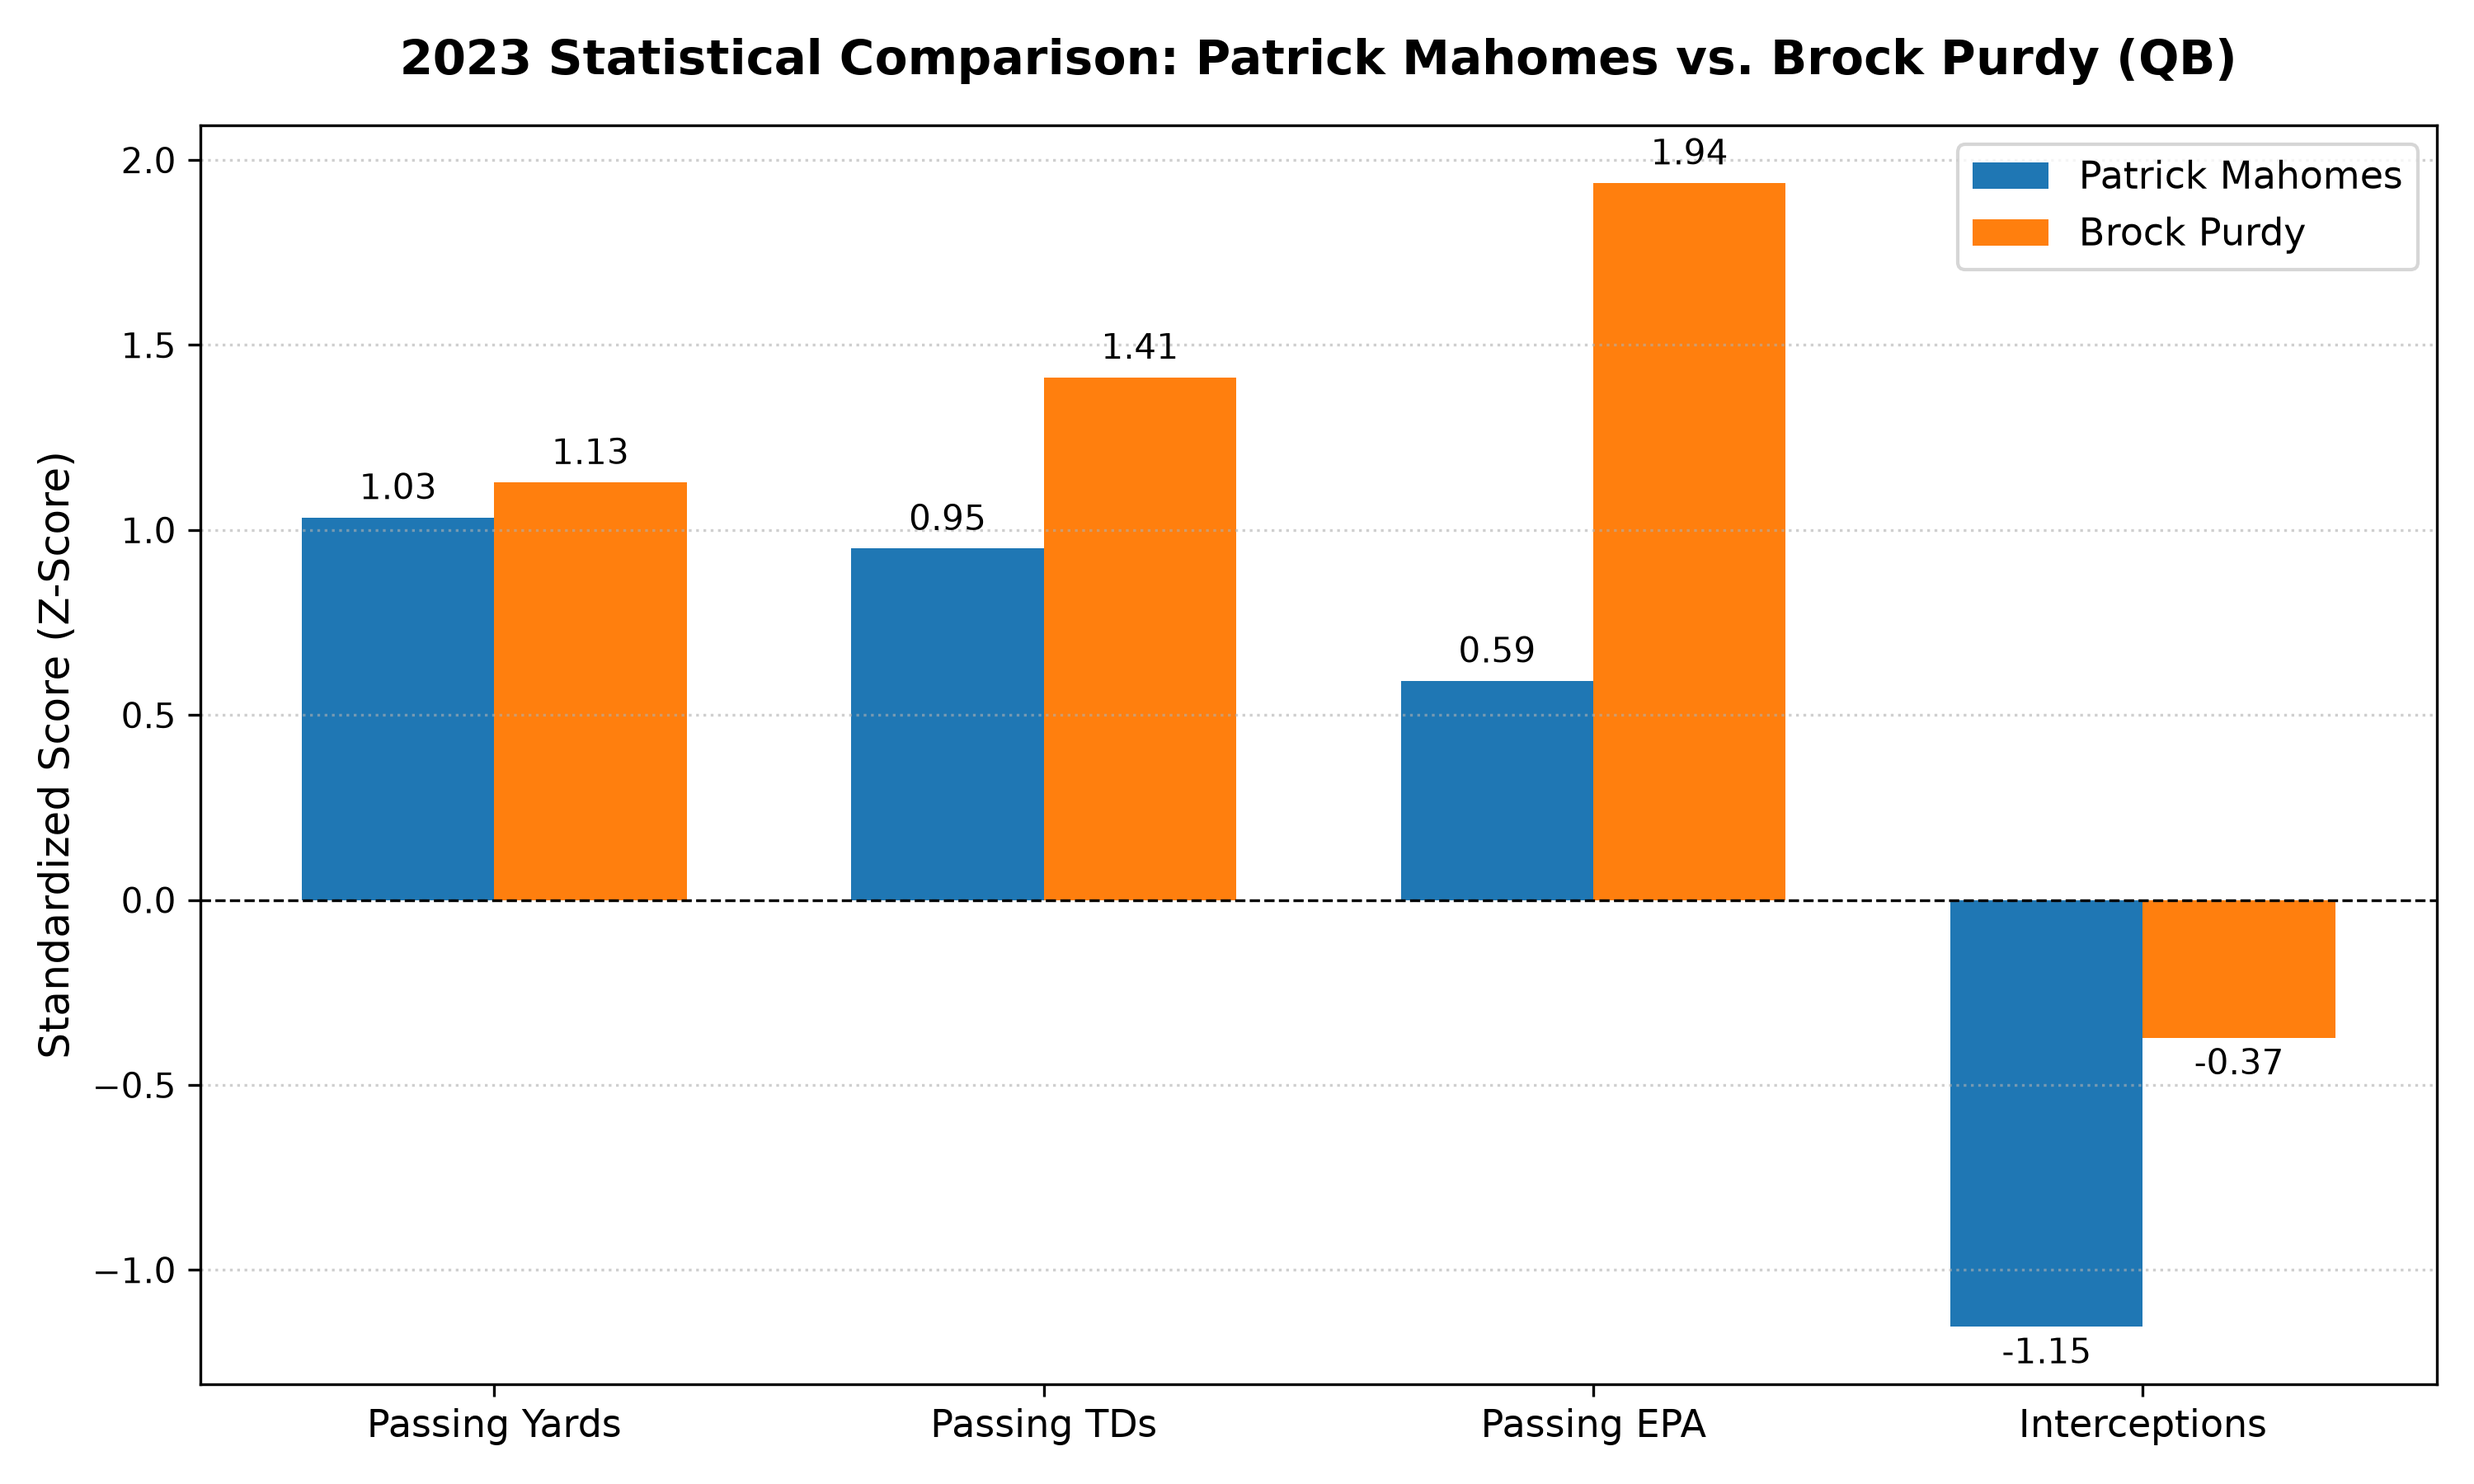
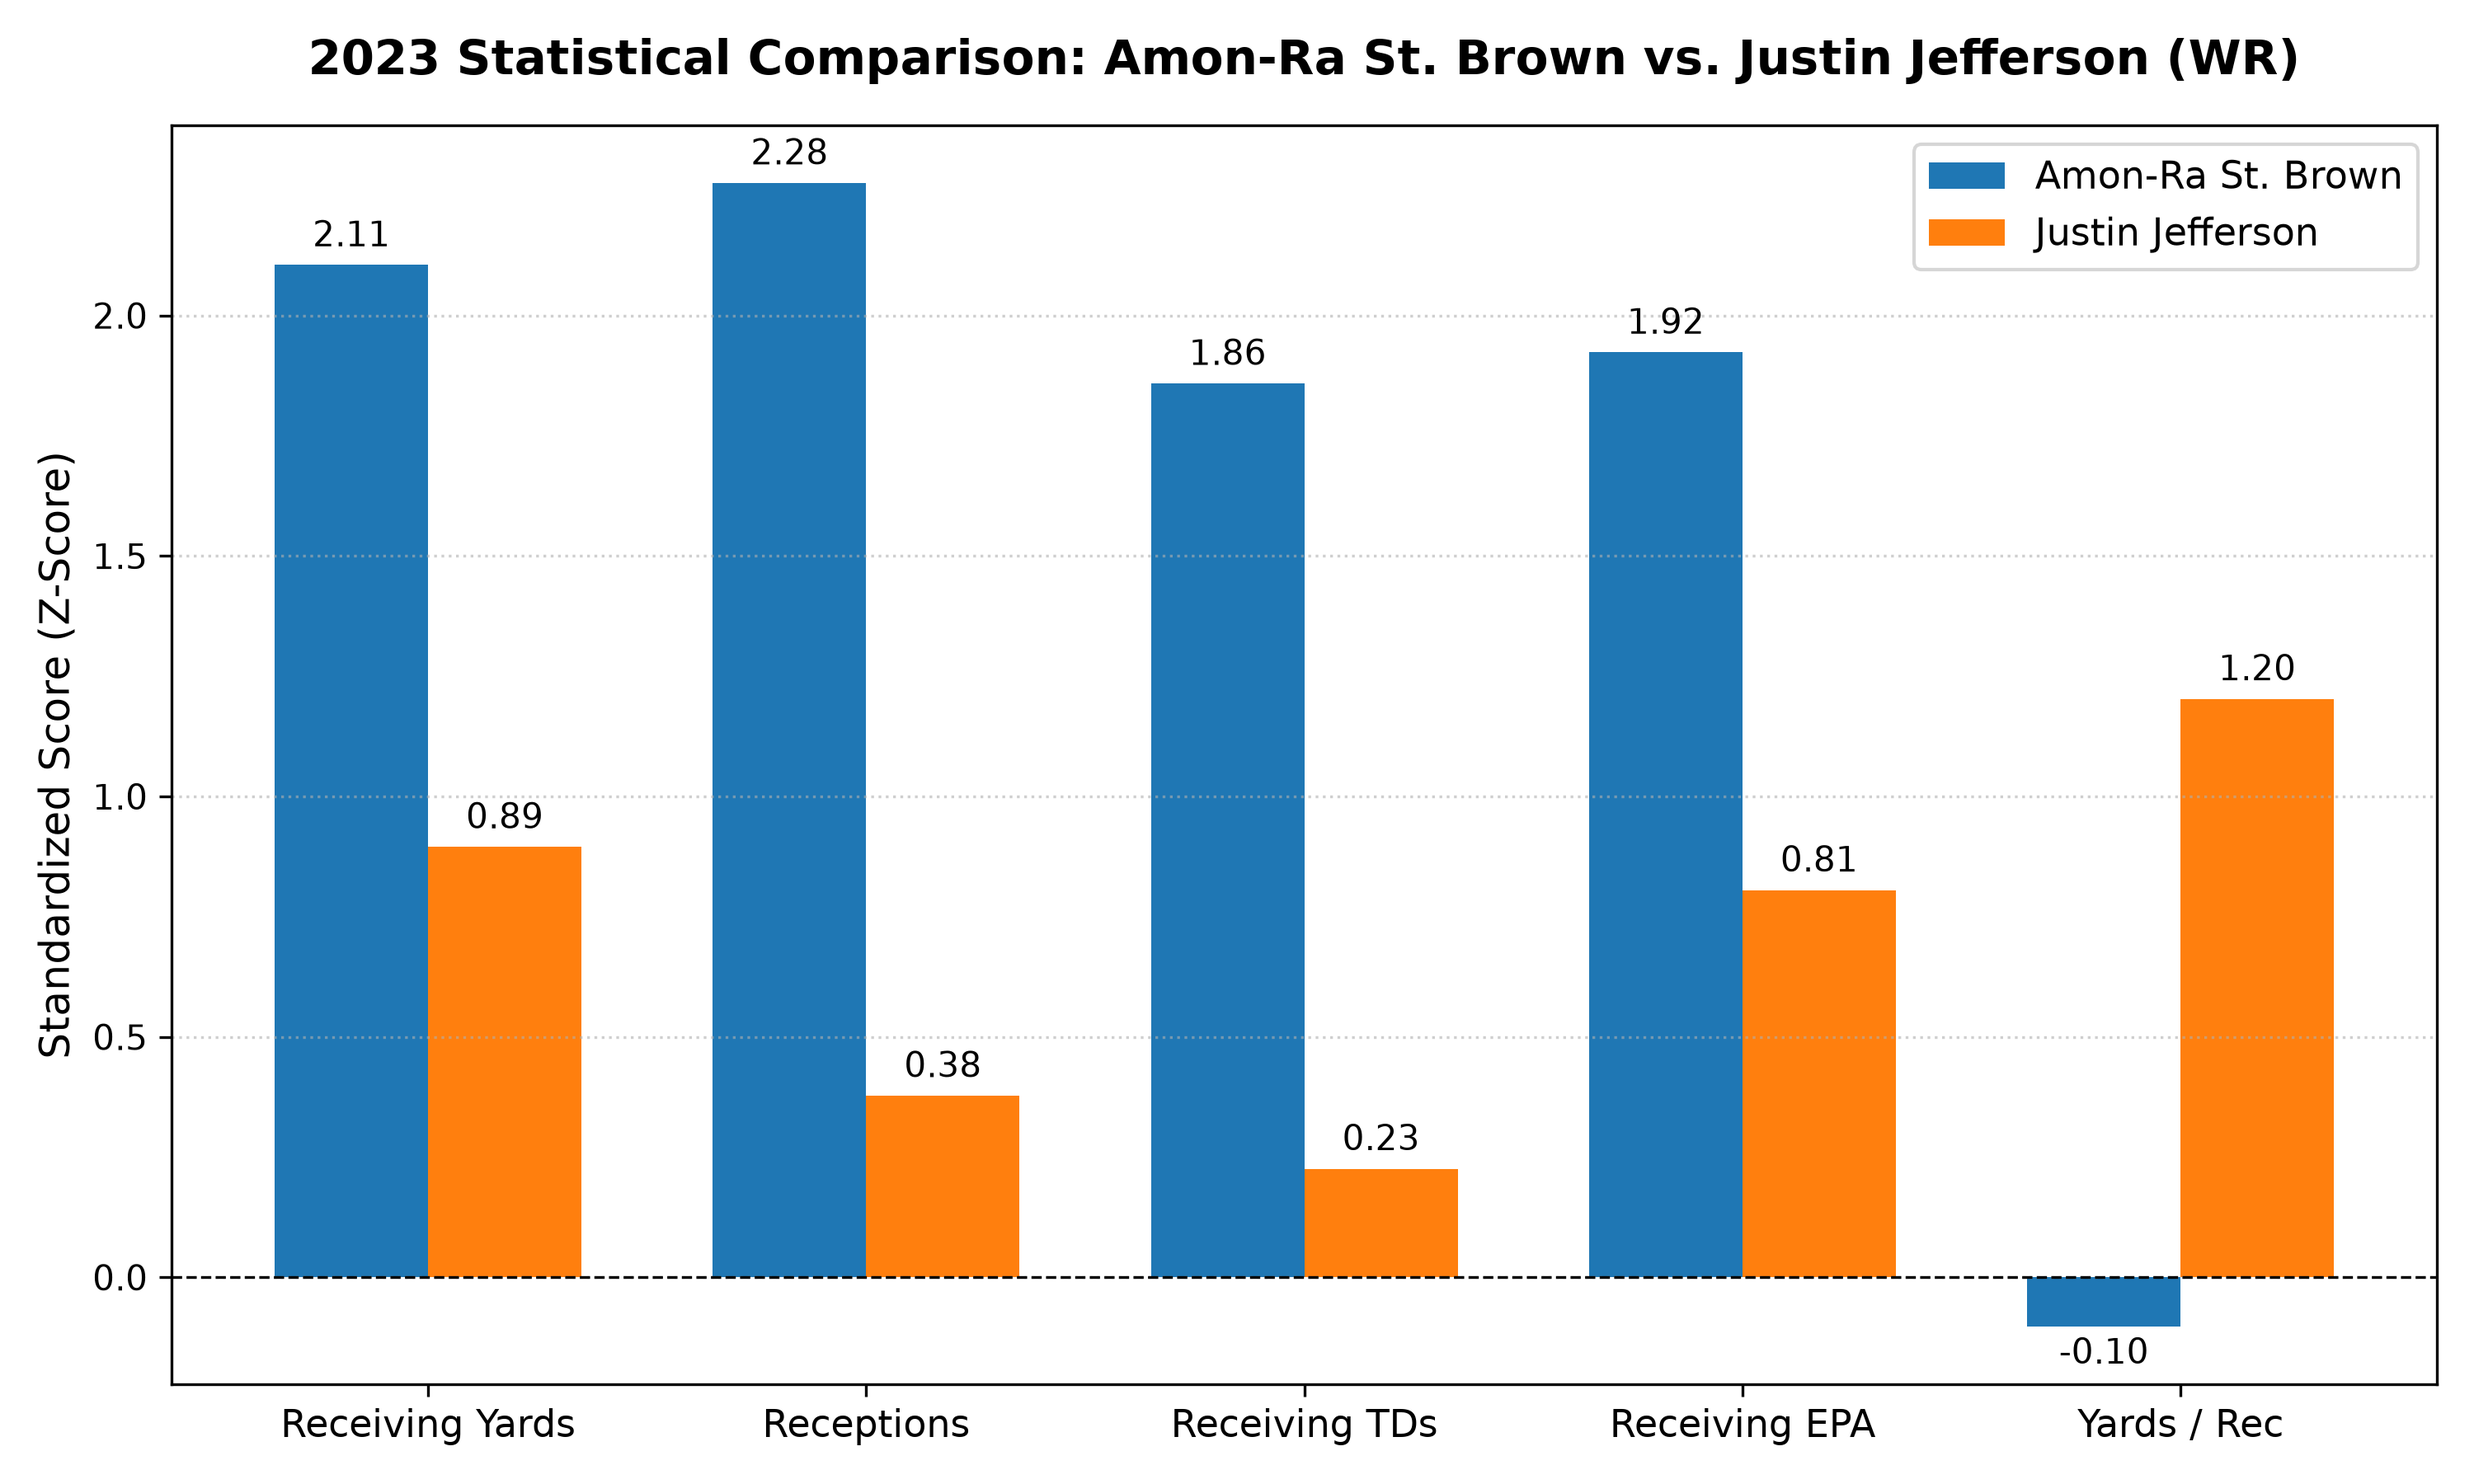
docs: finalize README with correct formulas, indented changelog, and WR chart

diff --git a/README.md b/README.md
@@ -1,160 +1,121 @@
-# NFL-player-compare
-A web application for comparing NFL players using statistics and performance data.
-## Visual Player Comparison
-
-Below is a sample output comparing **Patrick Mahomes** and **Brock Purdy** using normalized Z-scores across core QB factors:
-
-![Player Comparison Chart](player_comparison.png)
-
-
-[nfl_player_comparison_ranking_tool.md](https://github.com/user-attachments/files/34249619/nfl_player_comparison_ranking_tool.md)
 # NFL Player Comparison & Ranking Tool
 
-An interactive, multi-position NFL player evaluation tool built with Python, `pandas`, `nflreadpy`, and `matplotlib`. This application enables user-defined metric weighting, standardized Z-score performance indexing, dynamic position filtering, fuzzy player searching, and side-by-side visual analytics.
+A modular terminal application that processes season-long NFL data to rank and compare offensive skill players (QBs, RBs, WRs, TEs) using a custom Z-score statistical methodology.
 
 ---
 
-## Table of Contents
-- [Overview](#overview)
-- [Key Features](#key-features)
-- [Statistical Formula & Methodology](#statistical-formula--methodology)
-- [Installation & Requirements](#installation--requirements)
-- [Usage Guide](#usage-guide)
-- [Visualizations](#visualizations)
-- [Development Iterations & Changelog](#development-iterations--changelog)
+## Installation
 
----
-
-## Overview
-
-Traditional NFL statistics often evaluate players using single raw volume metrics (e.g., total passing yards) or raw averages that fail to account for context, sample size, or turnover penalties. This tool normalizes metrics across positions using **Z-scores** derived from 2023 regular-season data loaded via `nflreadpy`. It allows users to rank Quarterbacks (QB), Running Backs (RB), Wide Receivers (WR), and Tight Ends (TE) using balanced default formulas or custom-weighted criteria.
-
----
-
-## Key Features
-
-* **Multi-Position Normalization:** Evaluates QBs, RBs, WRs, and TEs using position-tailored factor dictionaries and minimum play thresholds.
-* **Fuzzy & Robust Name Search:** Handles input typos (e.g., `"jaylen hurts"` $\rightarrow$ `"Jalen Hurts"`) and punctuation variations (e.g., `"tj watt"` $\rightarrow$ `"T.J. Watt"`) using string cleaning and `difflib`.
-* **Interactive Preset & Custom Weighting:** Switch between Volume-heavy, Efficiency-heavy, Balanced, or fully customized metric weights (1–5 scale) with built-in overlap warnings.
-* **Turnover Penalty Directionality:** Automatically flips negative indicators (Interceptions, Fumbles Lost) so higher raw totals reduce composite rankings.
-* **Comparative Matplotlib Visualizations:** Generates grouped bar charts comparing player Z-scores directly against peers or position baselines.
-
----
-
-## Statistical Formula & Methodology
-
-### 1. Z-Score Standardization
-To compare disparate metrics (such as Passing EPA/play vs. Total Passing Yards) on an identical scale, raw stats ($X$) are transformed into standard deviation units ($Z$):
-
-$$Z = \left(\frac{X - \mu}{\sigma}\right) \times D$$
-
-Where:
-* $X$ = Player's raw stat
-* $\mu$ = Qualified position mean
-* $\sigma$ = Qualified position standard deviation
-* $D$ = Direction multiplier ($+1.0$ for positive metrics, $-1.0$ for negative metrics like INTs or Fumbles)
-
-### 2. Weighted Composite Index
-Player rankings are generated using the weighted mean of individual metric Z-scores:
-
-$$\text{Composite Score} = \frac{\sum (Z_i \times w_i)}{\sum w_i}$$
-
-Where $Z_i$ is the standardized metric score and $w_i$ is the assigned weight ($1 \le w_i \le 5$).
-
-### 3. Position Cutoffs & Factor Mappings
-
-| Position | Minimum Threshold | Included Metrics | Metric Direction |
-| :--- | :--- | :--- | :--- |
-| **QB** | $\ge 200$ Attempts | Passing Yards, Passing TDs, Passing EPA, Interceptions | INTs: Negative ($-1.0$) |
-| **RB** | $\ge 75$ Carries | Rushing Yards, Rushing TDs, Rushing EPA, Yards/Carry, Fumbles Lost | Fumbles: Negative ($-1.0$) |
-| **WR** | $\ge 40$ Targets | Receiving Yards, Receptions, Receiving TDs, Receiving EPA, Yards/Rec | All Positive ($+1.0$) |
-| **TE** | $\ge 40$ Targets | Receiving Yards, Receptions, Receiving TDs, Receiving EPA, Yards/Rec | All Positive ($+1.0$) |
-
----
-
-## Installation & Requirements
-
-### Prerequisites
-* Python 3.9 or higher
-
-### Required Dependencies
-Install the necessary libraries via `pip`:
+Ensure you have Python 3.8+ installed, then install the required dependencies:
 
 ```bash
 pip install pandas numpy nflreadpy matplotlib
+
 ```
 
 ---
 
-## Usage Guide
+## Features
 
-### 1. Interactive Search
-Run the robust player search interface:
-
-```bash
-python3 search.py
-```
-
-### 2. Custom QB Weighting Engine
-Run the custom weighting menu:
-
-```bash
-python3 rankings_v4.py
-```
-
-### 3. Multi-Position Rankings
-Generate rankings across QB, RB, WR, and TE:
-
-```bash
-python3 multi_position_rankings.py
-```
-
-### 4. Comparison Chart Generator
-Create Z-score comparison charts:
-
-```bash
-python3 charts.py
-```
+* **Memory-Cached Data Loading:** Downloads and parses 2023 NFL data using `nflreadpy` once at startup to optimize performance across all operations.
+* **Robust Player Search:** Supports exact full-name matches, unique last-name searches, and fuzzy string matching (with auto-correction for common typos).
+* **Position-Specific Z-Score Engine:** Ranks players within their position using weighted statistical factors (e.g., passing yards, passing TDs, passing EPA, and interceptions for QBs).
+* **Sample-Size Thresholds:** Filters out backup players using position-specific volume cutoffs (e.g., minimum 200 pass attempts for QBs).
+* **Side-by-Side Visual Comparisons:** Generates matplotlib bar charts comparing two qualified players across their position's core metrics.
+* **Interactive Terminal Workflow:** An intuitive CLI menu that unifies data processing, searching, ranking, and charting.
 
 ---
 
-## Visualizations
+## Positional Cutoffs & Metric Factors
 
-### Visual Player Comparison Chart
-The tool generates standardized Z-score visual charts comparing player stats without scale distortion:
-
-![Player Comparison Chart](player_comparison.png)
-
-*Figure 1: Standardized Z-Score Comparison between Patrick Mahomes and Brock Purdy (2023 Season).*
+| Position | Minimum Cutoff | Evaluated Metric Factors & Directions |
+| --- | --- | --- |
+| **QB** | 200 pass attempts | Passing Yards (1.0), Passing TDs (1.0), Passing EPA (1.0), Interceptions (-1.0) |
+| **RB** | 75 rush attempts | Rushing Yards (1.0), Rushing TDs (1.0), Rushing EPA (1.0), Yards/Carry (1.0), Fumbles Lost (-1.0) |
+| **WR** | 40 targets | Receiving Yards (1.0), Receptions (1.0), Receiving TDs (1.0), Receiving EPA (1.0), Yards/Reception (1.0) |
+| **TE** | 40 targets | Receiving Yards (1.0), Receptions (1.0), Receiving TDs (1.0), Receiving EPA (1.0), Yards/Reception (1.0) |
 
 ---
 
-## Development Iterations & Changelog
+## Statistical Methodology
 
-### Phase 1–2: Data Pipeline & Search Mechanics
-* Integrated `nflreadpy` to ingest 2023 regular season stats.
-* Implemented fuzzy matching via `difflib`. 
-* **Bug Fix:** Fixed `TypeError: object of type 'float' has no len()` caused by `NaN` values in `nflreadpy` string columns by applying `.dropna()` and explicit type filtering.
-* **Regex Enhancement:** Built `clean_str()` regex pipeline to resolve punctuation matching issues (e.g., matching `"tj watt"` to `"T.J. Watt"`).
+Players are evaluated using **Z-scores** to measure how many standard deviations their performance is above or below the positional mean:
 
-### Phase 3: Z-Score Core & Model Validation
-* Built initial 4-factor QB ranking model (Yards, TDs, EPA, INTs).
-* Defended C.J. Stroud's QB3 placement based on low turnover rate (5 INTs on 499 attempts).
+$$Z = D \times \frac{x - \mu}{\sigma}$$
 
-### Phase 4: Interactive Weighting Engine
-* Added interactive CLI menu with Volume, Efficiency, and Balanced presets.
-* Implemented input validation and double-counting warnings when high weights are assigned to both aggregate volume and composite EPA.
+* **$x$**: Player's individual stat value
+* **$\mu$**: Positional average (mean)
+* **$\sigma$**: Positional standard deviation
+* **$D$**: Direction multiplier ($D = -1$ for negative metrics like interceptions and fumbles lost; $D = 1$ for all other stats)
 
-### Phase 5: Multi-Position Expansion
-* Refactored Z-score scoring pipeline into a reusable modular function (`calculate_zscore_rankings`).
-* Configured tailored factor dicts and touch thresholds for RB ($\ge 75$ carries), WR ($\ge 40$ targets), and TE ($\ge 40$ targets).
-* Validated RB efficiency outliers (De'Von Achane's 7.8 YPC) vs. full-season volume leaders (Christian McCaffrey, Raheem Mostert).
+### Composite Score Formula
 
-### Phase 6: Matplotlib Analytics Visualization
-* Developed `charts.py` to plot grouped Z-score bar graphs for visual comparison.
+Positional Z-scores are multiplied by their directional factors and averaged to determine a composite score:
+
+$$\text{Composite Score} = \frac{\sum (Z_{\text{stat}} \times D_{\text{stat}})}{\sum \vert{}D_{\text{stat}}\vert{}}$$
+
+*Note: All EPA (Expected Points Added) metrics in this tool utilize cumulative **Total EPA** for the 2023 regular season, rather than per-play averages.*
+
+---
+
 ## Usage Guide
 
 To launch the interactive CLI application:
 
 ```bash
 python3 main.py
+
+```
+
+### Individual Scripts & Standalone Tools
+
+*(Earlier versions and specialized modules)*
+
+* `multi_position_rankings.py`: Runs the core Z-score calculation engine and prints positional leaderboards across skill positions.
+* `search.py`: Handles player name normalization, fuzzy matching, and disambiguation.
+* `charts.py`: Generates individual matplotlib comparison charts.
+* `rankings.py` & `rankings_v4.py`: Earlier iterations of the ranking script. `rankings_v4.py` includes a standalone interactive menu allowing users to input custom weights specifically for QBs (note: custom weighting is currently exclusive to `rankings_v4.py` and not part of the main `main.py` CLI workflow).
+
+---
+
+## Visualizations
+
+### Example Comparison: Amon-Ra St. Brown vs. Justin Jefferson (2023 WRs)
+
+> **Analytical Note:** Season-long cumulative totals heavily favor players who appeared in all 17 games. Justin Jefferson missed 7 games in 2023 due to a hamstring injury; while his efficiency (*Yards Per Reception*) remained elite, his cumulative Z-scores reflect missed volume compared to Amon-Ra St. Brown's full-season workload.
+
+---
+
+## Technical Changelog
+
+* **Phase 1 (Data Foundation & Basic Ranking):**
+* Loaded raw 2023 season-long player stats using `nflreadpy` (`load_player_stats` with `summary_level="reg"`).
+* Calculated basic Z-scores for QBs and handled NaN values caused by missing stats.
+
+
+* **Phase 2 (Position Expansion & Weighting):**
+* Defined `POSITION_CONFIGS` for QBs, RBs, WRs, and TEs with position-specific metrics and minimum volume thresholds.
+* Implemented directional multipliers ($D = -1$) for negative metrics (interceptions, fumbles).
+
+
+* **Phase 3 (Fuzzy Search & Punctuation Handling):**
+* Built `search.py` using `difflib` to auto-correct typos (e.g., auto-correcting `Amon Ra St brown` to `Amon-Ra St. Brown`).
+* Added multi-player selection menus when input searches match multiple players.
+
+
+* **Phase 4 (Validation & Verification):**
+* Verified sample-size filtering against real-world edge cases (e.g., C.J. Stroud's rookie season qualifications and De'Von Achane's high-efficiency, limited-volume RB campaign).
+
+
+* **Phase 5 (Visualizations):**
+* Created `charts.py` using `matplotlib` to plot side-by-side Z-score profiles for two players sharing the same position.
+
+
+* **Phase 6 (Refactoring & Decoupling):**
+* Modularized codebase to prevent redundant dataset re-downloads across functions.
+
+
+* **Phase 7 (Application Orchestration & Polish):**
+* Built `main.py` entry point to connect memory-cached data loading, player search, ranking outputs, and side-by-side charting in a single CLI loop.
+* **Bug Fix:** Fixed volume qualification logic in `get_player_qualification_info()`. The initial fix attempted to parse `min_` keys dynamically and defaulted to checking 0, but the function was successfully updated to read `cutoff_col` and `min_cutoff` directly from `POSITION_CONFIGS` (verified with backup QB Blaine Gabbert's 35 pass attempts).
+* **Analytical Insight:** Documented the impact of missed games on cumulative season totals using the Amon-Ra St. Brown vs. Justin Jefferson comparison.
